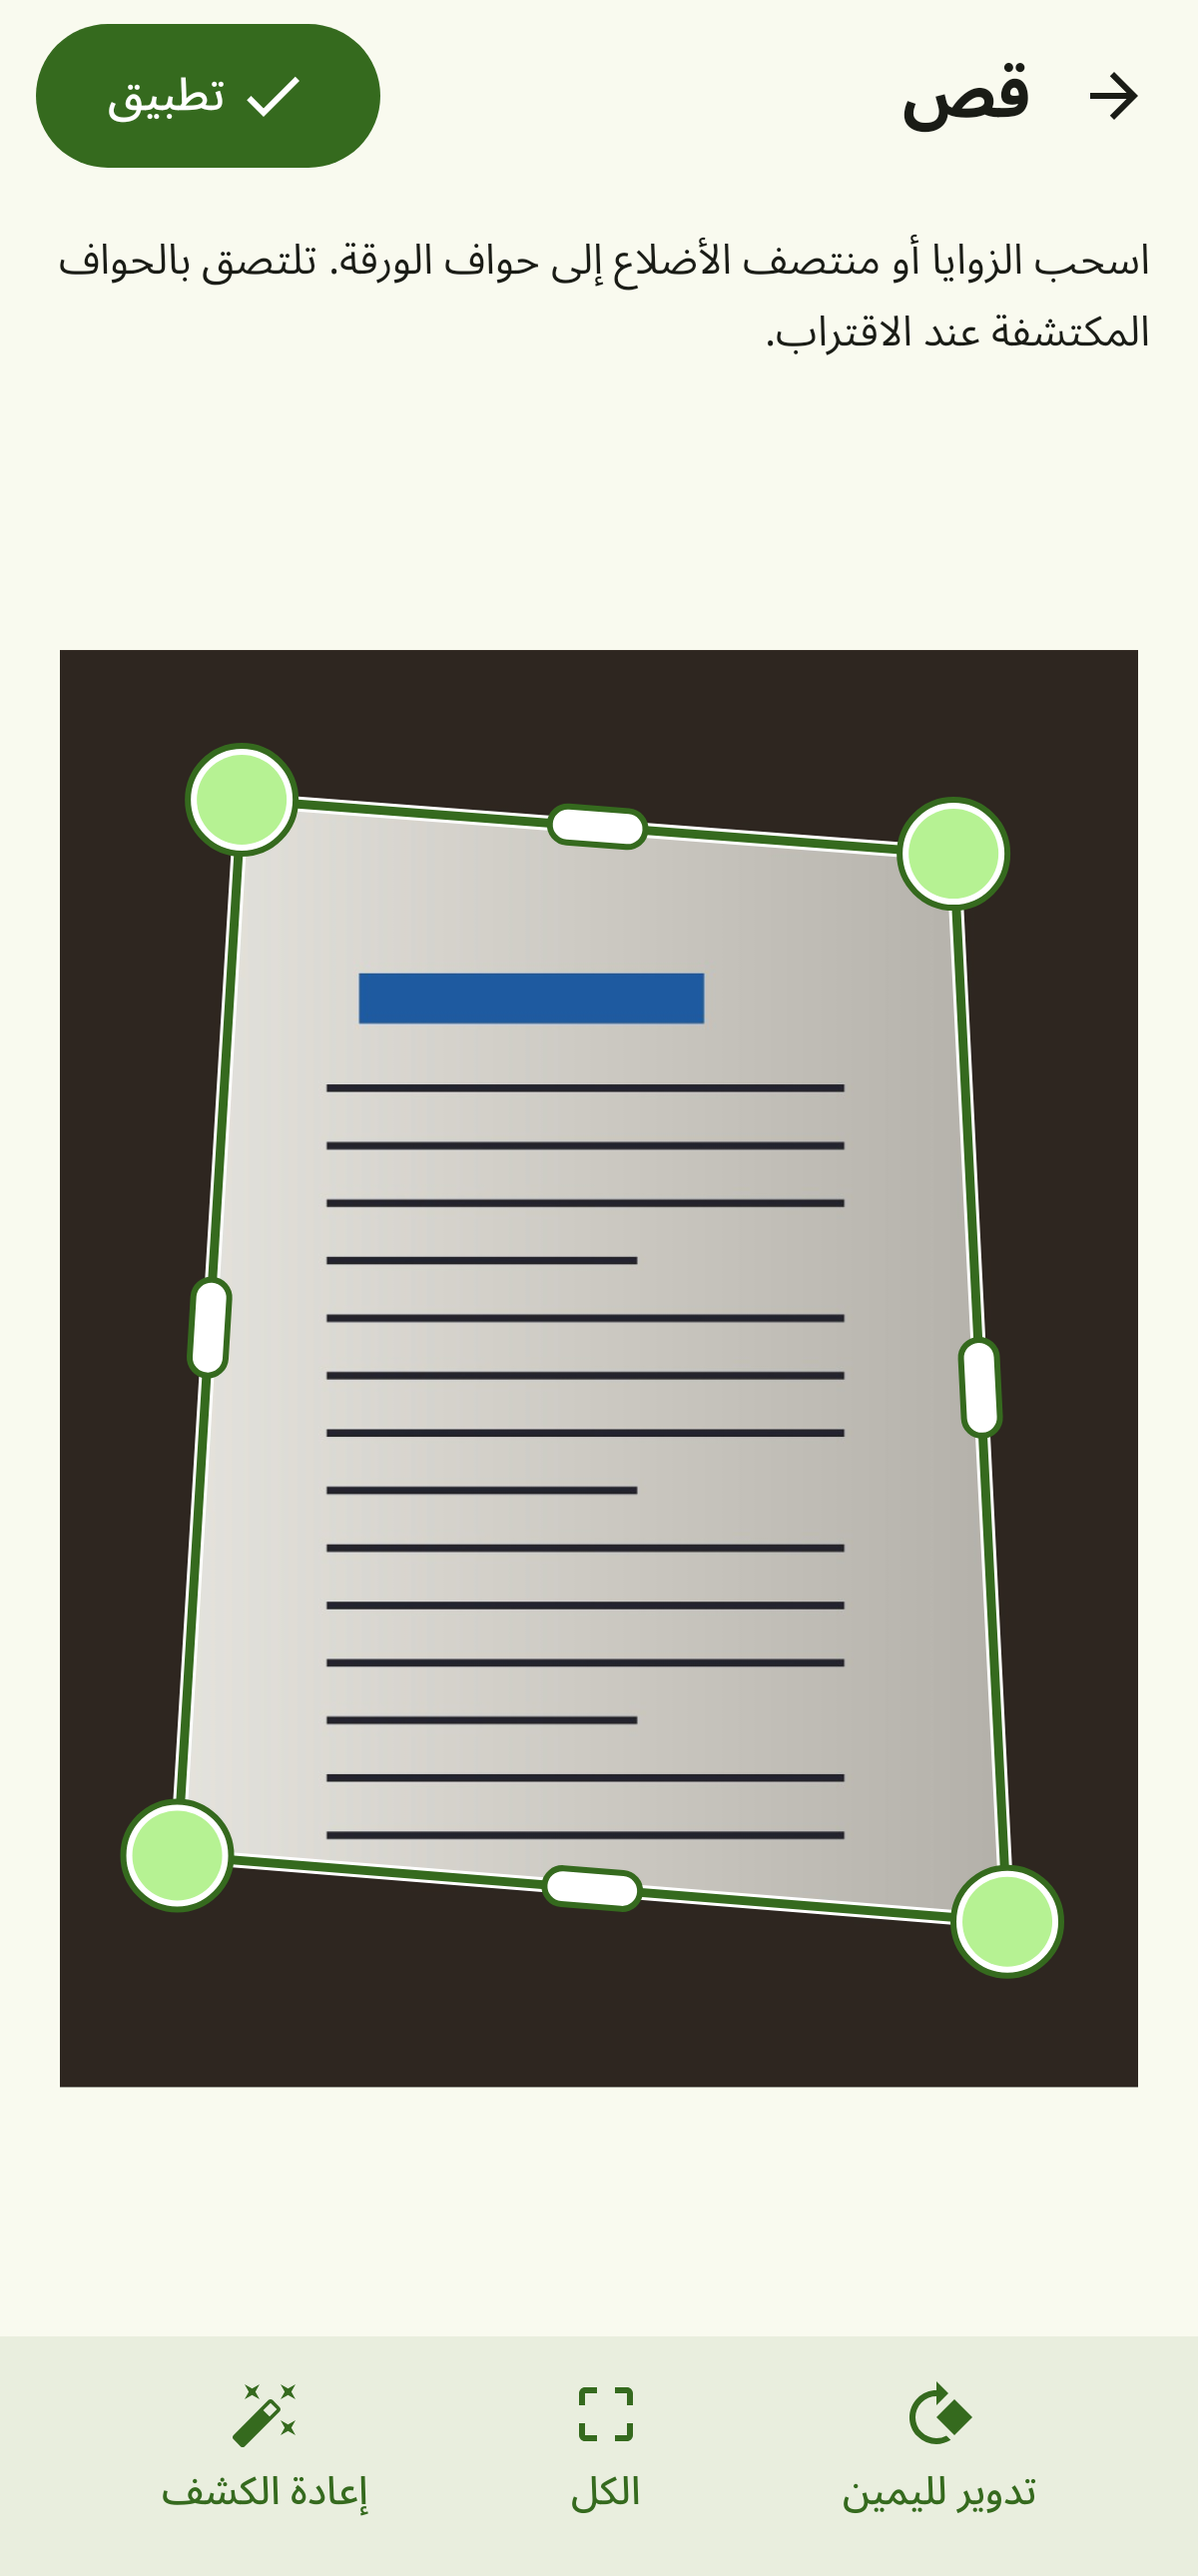
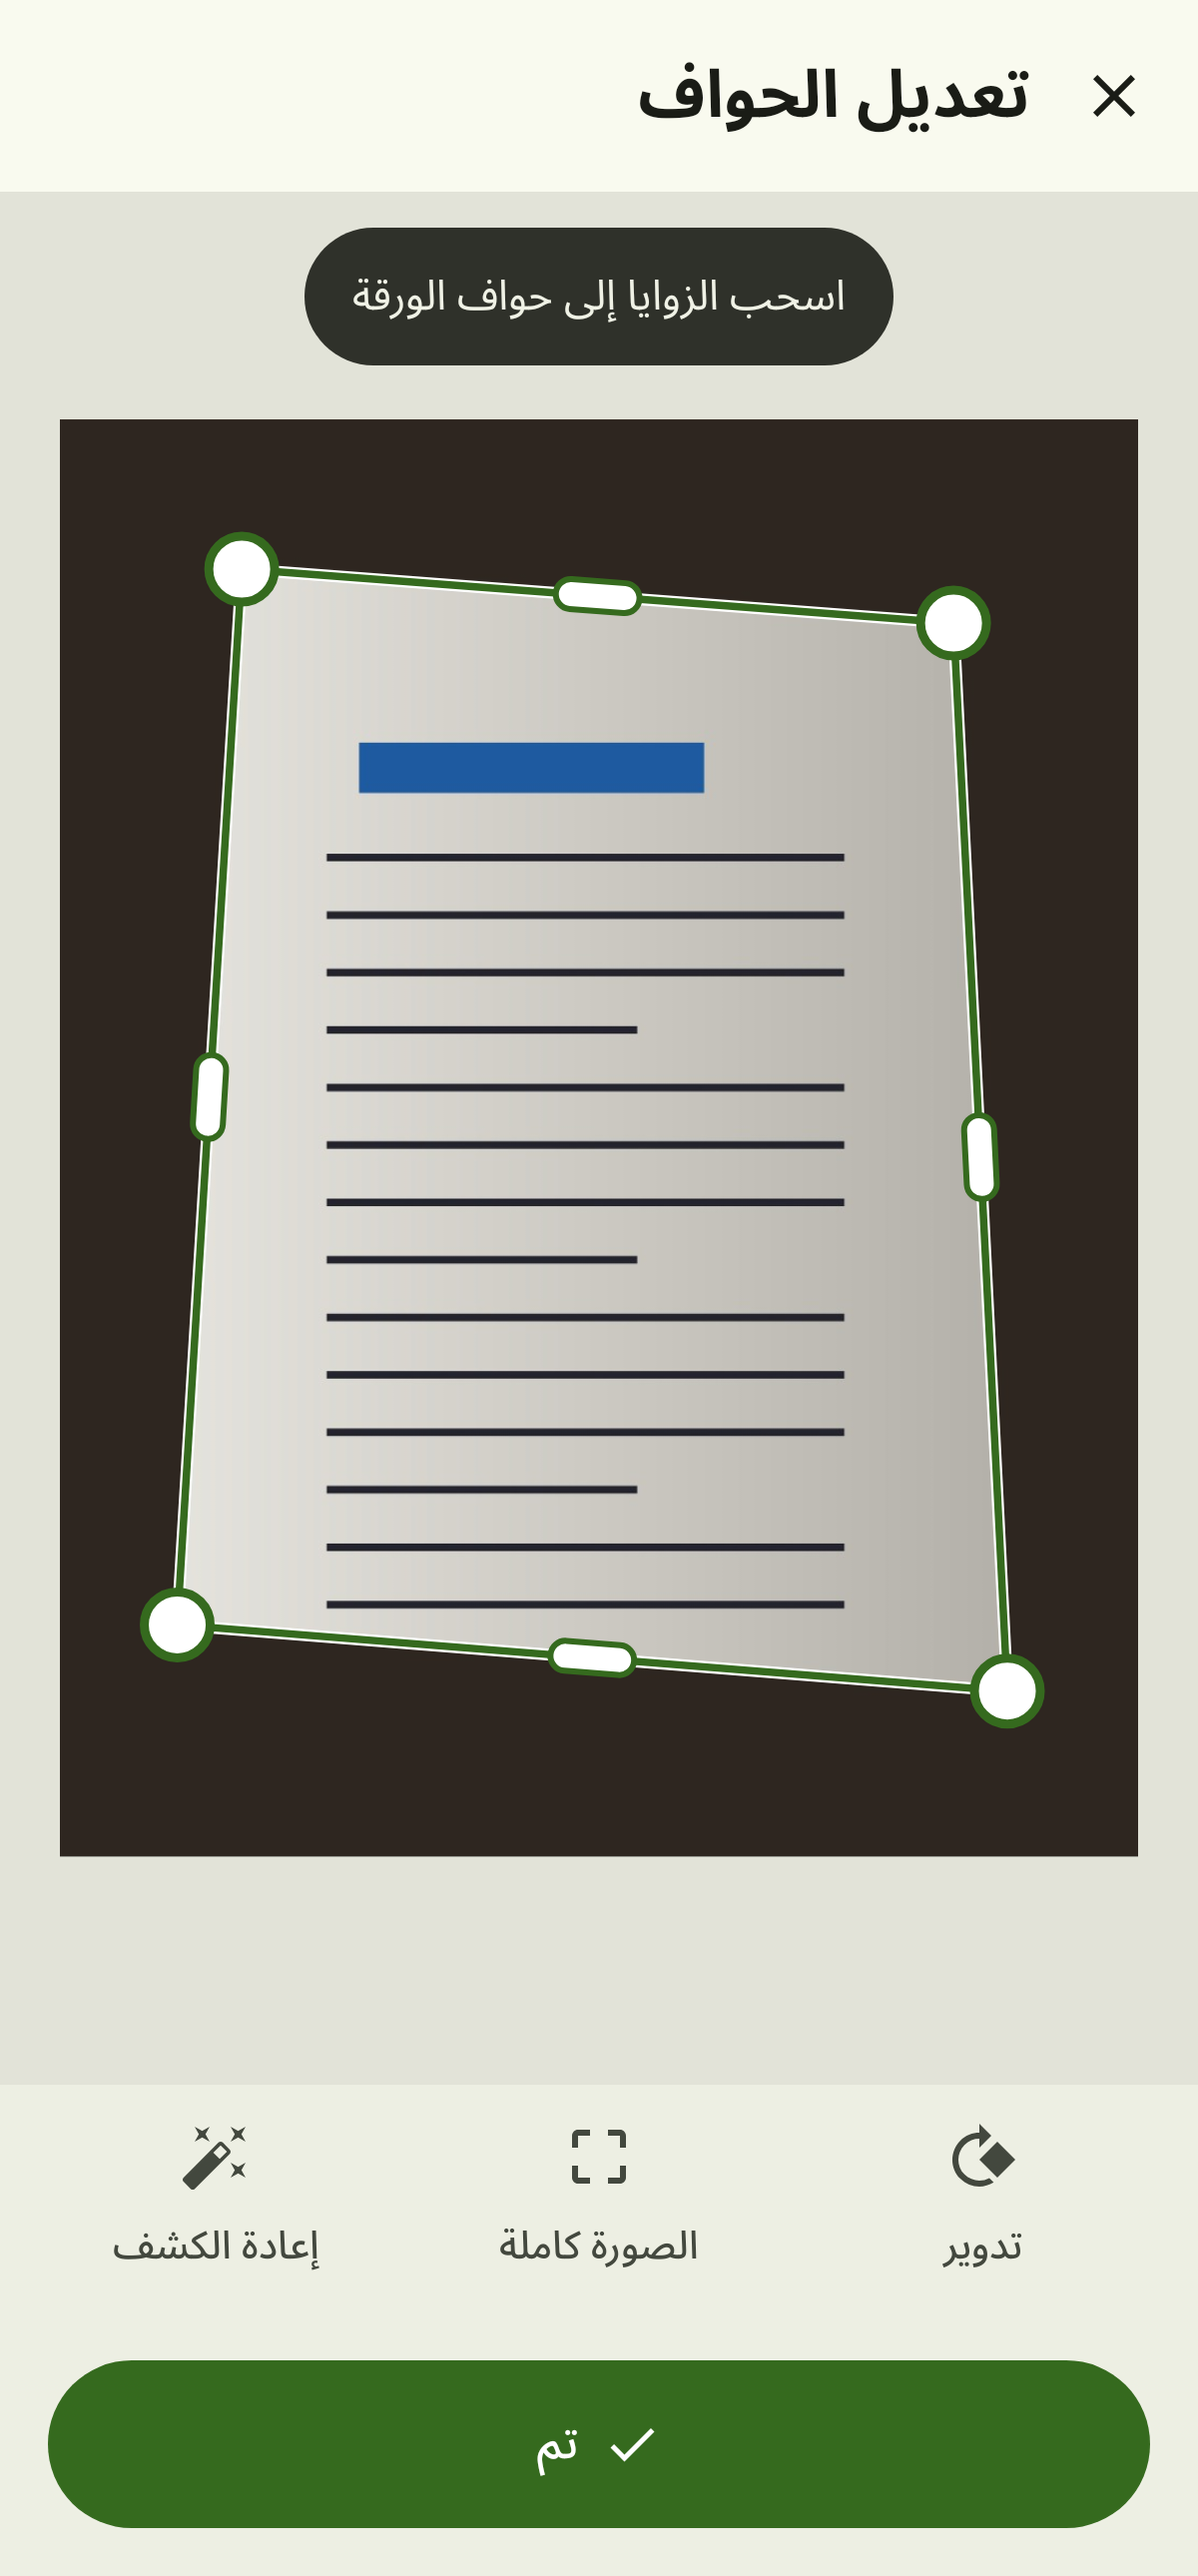
Design step 8: crop screen with close, tool row, full-width Done, hint pill
Primary «تم» at the bottom (disabled while the outline is invalid); rotate /
whole image / re-detect as labelled tools; one-time drag hint and the
invalid-shape bar overlay the canvas; handles restyled (22 dp discs with a
primary ring, 28x10 dp side pills, outline over a white halo). Geometry,
magnifier and snapping unchanged.

diff --git a/app/src/main/java/com/fastkiwi/scan/ui/CropScreen.kt b/app/src/main/java/com/fastkiwi/scan/ui/CropScreen.kt
@@ -42,6 +42,11 @@ import androidx.compose.runtime.rememberUpdatedState
 import androidx.compose.runtime.setValue
 import androidx.compose.ui.Alignment
 import androidx.compose.ui.Modifier
+import androidx.compose.foundation.background
+import androidx.compose.foundation.layout.Spacer
+import androidx.compose.foundation.layout.width
+import androidx.compose.foundation.layout.size
+import com.fastkiwi.scan.ui.theme.Dimens
 import androidx.compose.ui.geometry.Offset
 import androidx.compose.ui.geometry.Rect
 import androidx.compose.ui.geometry.Size
@@ -100,53 +105,35 @@ fun CropScreen(vm: AppViewModel, docId: String, pageId: String) {
     }
     var rotation by androidx.compose.runtime.saveable.rememberSaveable(docId, pageId) { mutableIntStateOf(page?.rotation ?: 0) }
     val detected = loaded?.second?.quad
+    // The drag hint shows until the first drag, once per install.
+    var showHint by remember { mutableStateOf(!vm.settings.cropHintSeen) }
 
     val problem = CropGeometry.validate(corners, 1f, 1f, 0.005f)
 
     Scaffold(
-        topBar = {
-            TopAppBar(
-                navigationIcon = { IconButton(onClick = { vm.back() }) { Icon(Icons.AutoMirrored.Filled.ArrowBack, stringResource(R.string.cancel)) } },
-                title = { Text(stringResource(R.string.crop)) },
-                actions = {
+        topBar = { KiwiTopBar(stringResource(R.string.crop_title), NavIcon.CLOSE, { vm.back() }) },
+        bottomBar = {
+            Column {
+                ActionToolbar(systemInsets = false) {
+                    ToolbarAction(KiwiIcons.rotateRight(), stringResource(R.string.rotate), { rotation = (rotation + 90) % 360 })
+                    ToolbarAction(KiwiIcons.cropFree(), stringResource(R.string.crop_all), { corners = BitmapIO.FULL })
+                    ToolbarAction(KiwiIcons.redetect(), stringResource(R.string.crop_reset_detected), { detected?.let { corners = it } }, enabled = detected != null)
+                }
+                BottomActionBar {
                     Button(
                         onClick = {
                             vm.editPage(docId, pageId) { it.copy(corners = corners, rotation = rotation) }
                             vm.back()
                         },
                         enabled = problem == null && page != null,
-                        modifier = Modifier.padding(end = 8.dp),
-                    ) { Icon(Icons.Filled.Check, null); Text(" " + stringResource(R.string.apply)) }
-                },
-            )
-        },
-        bottomBar = {
-            Surface(tonalElevation = 3.dp) {
-                Row(
-                    Modifier.fillMaxWidth().padding(horizontal = 4.dp, vertical = 6.dp),
-                    horizontalArrangement = Arrangement.SpaceEvenly,
-                ) {
-                    ToolButton(Icons.Filled.Rotate90DegreesCw, R.string.rotate_right) { rotation = (rotation + 90) % 360 }
-                    ToolButton(Icons.Filled.CropFree, R.string.crop_all) { corners = BitmapIO.FULL }
-                    ToolButton(Icons.Filled.AutoFixHigh, R.string.crop_reset_detected, enabled = detected != null) {
-                        detected?.let { corners = it }
-                    }
+                        modifier = Modifier.fillMaxWidth().heightIn(min = Dimens.buttonLarge),
+                    ) { Icon(KiwiIcons.check(), null, Modifier.size(20.dp)); Spacer(Modifier.width(Dimens.s)); Text(stringResource(R.string.done)) }
                 }
             }
         },
     ) { padding ->
-        Column(Modifier.padding(padding).fillMaxSize()) {
-            if (problem != null) {
-                ProblemBanner(problem) {
-                    CropGeometry.fix(corners, 1f, 1f)?.let { corners = it } ?: run { corners = detected ?: BitmapIO.FULL }
-                }
-            } else {
-                Text(
-                    stringResource(R.string.crop_hint), style = MaterialTheme.typography.bodyMedium,
-                    modifier = Modifier.padding(horizontal = 16.dp, vertical = 8.dp),
-                )
-            }
-            Box(Modifier.weight(1f).fillMaxWidth().padding(horizontal = 20.dp, vertical = 16.dp), contentAlignment = Alignment.Center) {
+        Box(Modifier.padding(padding).fillMaxSize().background(MaterialTheme.colorScheme.surfaceContainerHighest)) {
+            Box(Modifier.fillMaxSize().padding(horizontal = 20.dp, vertical = Dimens.l), contentAlignment = Alignment.Center) {
                 val l = loaded
                 if (l == null) {
                     CircularProgressIndicator()
@@ -163,9 +150,20 @@ fun CropScreen(vm: AppViewModel, docId: String, pageId: String) {
                     if (v == null || v.first != rotation) {
                         CircularProgressIndicator()
                     } else {
-                        CornerEditor(v.second, corners, rotation, detected, problem != null) { corners = it }
+                        CornerEditor(v.second, corners, rotation, detected, problem != null) {
+                            corners = it
+                            if (showHint) { showHint = false; vm.settings.cropHintSeen = true }
+                        }
                     }
                 }
+            }
+            // Overlays at the top of the canvas: the invalid-shape bar, or the one-time hint.
+            if (problem != null) {
+                ProblemBanner(problem, Modifier.align(Alignment.TopCenter).padding(Dimens.m)) {
+                    CropGeometry.fix(corners, 1f, 1f)?.let { corners = it } ?: run { corners = detected ?: BitmapIO.FULL }
+                }
+            } else if (showHint) {
+                HintPill(stringResource(R.string.crop_hint_short), Modifier.align(Alignment.TopCenter).padding(Dimens.m))
             }
         }
     }
@@ -177,17 +175,7 @@ private val QuadSaver = androidx.compose.runtime.saveable.Saver<Quad, FloatArray
 )
 
 @Composable
-private fun ToolButton(icon: androidx.compose.ui.graphics.vector.ImageVector, label: Int, enabled: Boolean = true, onClick: () -> Unit) {
-    TextButton(onClick = onClick, enabled = enabled, modifier = Modifier.heightIn(min = 56.dp)) {
-        Column(horizontalAlignment = Alignment.CenterHorizontally) {
-            Icon(icon, null)
-            Text(stringResource(label), style = MaterialTheme.typography.labelMedium, textAlign = TextAlign.Center)
-        }
-    }
-}
-
-@Composable
-private fun ProblemBanner(problem: QuadProblem, onFix: () -> Unit) {
+private fun ProblemBanner(problem: QuadProblem, modifier: Modifier, onFix: () -> Unit) {
     val msg = stringResource(
         when (problem) {
             QuadProblem.CROSSED -> R.string.crop_problem_crossed
@@ -195,17 +183,18 @@ private fun ProblemBanner(problem: QuadProblem, onFix: () -> Unit) {
             QuadProblem.TOO_SMALL -> R.string.crop_problem_small
         },
     )
-    Surface(color = MaterialTheme.colorScheme.errorContainer, modifier = Modifier.fillMaxWidth()) {
+    Surface(color = MaterialTheme.colorScheme.errorContainer, shape = MaterialTheme.shapes.large, modifier = modifier.fillMaxWidth()) {
         Row(
-            Modifier.padding(horizontal = 16.dp, vertical = 6.dp).semantics { liveRegion = LiveRegionMode.Assertive },
+            Modifier.padding(start = Dimens.l, end = Dimens.xs).semantics { liveRegion = LiveRegionMode.Assertive },
             verticalAlignment = Alignment.CenterVertically,
         ) {
-            Icon(Icons.Filled.Warning, null, tint = MaterialTheme.colorScheme.onErrorContainer)
-            Text(msg, Modifier.weight(1f).padding(horizontal = 12.dp), color = MaterialTheme.colorScheme.onErrorContainer, style = MaterialTheme.typography.bodyMedium)
-            TextButton(onClick = onFix) { Text(stringResource(R.string.crop_fix)) }
+            Icon(KiwiIcons.warning(), null, tint = MaterialTheme.colorScheme.onErrorContainer)
+            Text(msg, Modifier.weight(1f).padding(horizontal = Dimens.m, vertical = Dimens.s), color = MaterialTheme.colorScheme.onErrorContainer, style = MaterialTheme.typography.bodyMedium)
+            TextButton(onClick = onFix, modifier = Modifier.heightIn(min = 48.dp)) { Text(stringResource(R.string.crop_fix)) }
         }
     }
 }
+
 
 /**
  * [corners] and [detected] are normalised in the source image; the view shows the
@@ -320,8 +309,9 @@ private fun CornerEditor(
             }
             drawPath(scrim, Color.Black.copy(alpha = 0.45f))
             val lineColor = if (invalid) error else primary
-            drawPath(outline, Color.White, style = Stroke(width = 5.dp.toPx()))
-            drawPath(outline, lineColor, style = Stroke(width = 3.dp.toPx()))
+            // 2.5 dp outline over a 4 dp white halo: visible on any photo.
+            drawPath(outline, Color.White, style = Stroke(width = 4.dp.toPx()))
+            drawPath(outline, lineColor, style = Stroke(width = 2.5.dp.toPx()))
 
             // Side handles: white capsules along each side.
             for (s in 0 until 4) {
@@ -330,8 +320,8 @@ private fun CornerEditor(
                 val mid = Offset((a.x + b.x) / 2f, (a.y + b.y) / 2f)
                 val angle = Math.toDegrees(atan2((b.y - a.y).toDouble(), (b.x - a.x).toDouble())).toFloat()
                 val isActive = active == Handle(Handle.Kind.EDGE, s)
-                val len = (if (isActive) 40.dp else 32.dp).toPx()
-                val thick = 12.dp.toPx()
+                val len = (if (isActive) 34.dp else 28.dp).toPx()
+                val thick = 10.dp.toPx()
                 rotate(angle, pivot = mid) {
                     drawRoundRect(
                         if (isActive) primary else Color.White,
@@ -347,10 +337,10 @@ private fun CornerEditor(
             // Corner handles.
             pts.forEachIndexed { i, p ->
                 val isActive = active == Handle(Handle.Kind.CORNER, i)
-                val r = (if (isActive) 18.dp else 15.dp).toPx()
-                drawCircle(Color.White, radius = r + 3.dp.toPx(), center = p)
-                drawCircle(if (isActive) primary else handleFill, radius = r, center = p)
-                drawCircle(lineColor, radius = r + 3.dp.toPx(), center = p, style = Stroke(2.dp.toPx()))
+                // 22 dp white disc with a 3 dp ring (grab area stays 72 dp).
+                val r = (if (isActive) 14.dp else 11.dp).toPx()
+                drawCircle(if (isActive) handleFill else Color.White, radius = r, center = p)
+                drawCircle(lineColor, radius = r, center = p, style = Stroke(3.dp.toPx()))
             }
 
             // Magnifier above the finger (below it when near the top), never under it.

diff --git a/app/src/main/java/com/fastkiwi/scan/ui/KiwiComponents.kt b/app/src/main/java/com/fastkiwi/scan/ui/KiwiComponents.kt
@@ -178,10 +178,10 @@ fun RowScope.ToolbarAction(icon: ImageVector, label: String, onClick: () -> Unit
 
 /** Up to five [ToolbarAction]s in a bottom bar. */
 @Composable
-fun ActionToolbar(content: @Composable RowScope.() -> Unit) {
+fun ActionToolbar(systemInsets: Boolean = true, content: @Composable RowScope.() -> Unit) {
     Surface(color = MaterialTheme.colorScheme.surfaceContainer) {
         Row(
-            Modifier.fillMaxWidth().navigationBarsPadding().padding(horizontal = Dimens.s, vertical = Dimens.xs),
+            Modifier.fillMaxWidth().then(if (systemInsets) Modifier.navigationBarsPadding() else Modifier).padding(horizontal = Dimens.s, vertical = Dimens.xs),
             verticalAlignment = Alignment.CenterVertically,
             content = content,
         )

diff --git a/app/src/main/java/com/fastkiwi/scan/ui/Settings.kt b/app/src/main/java/com/fastkiwi/scan/ui/Settings.kt
@@ -27,6 +27,11 @@ class Settings(ctx: Context) {
         set(v) = p.edit().putBoolean("auto_capture", v).apply()
 
     /** Open the outline editor after each manual shot (auto-captured batches skip it). */
+    /** The crop screen's drag hint was dismissed (shown once per install). */
+    var cropHintSeen: Boolean
+        get() = p.getBoolean("crop_hint_seen", false)
+        set(v) = p.edit().putBoolean("crop_hint_seen", v).apply()
+
     var reviewAfterCapture: Boolean
         get() = p.getBoolean("review_after_capture", true)
         set(v) = p.edit().putBoolean("review_after_capture", v).apply()
